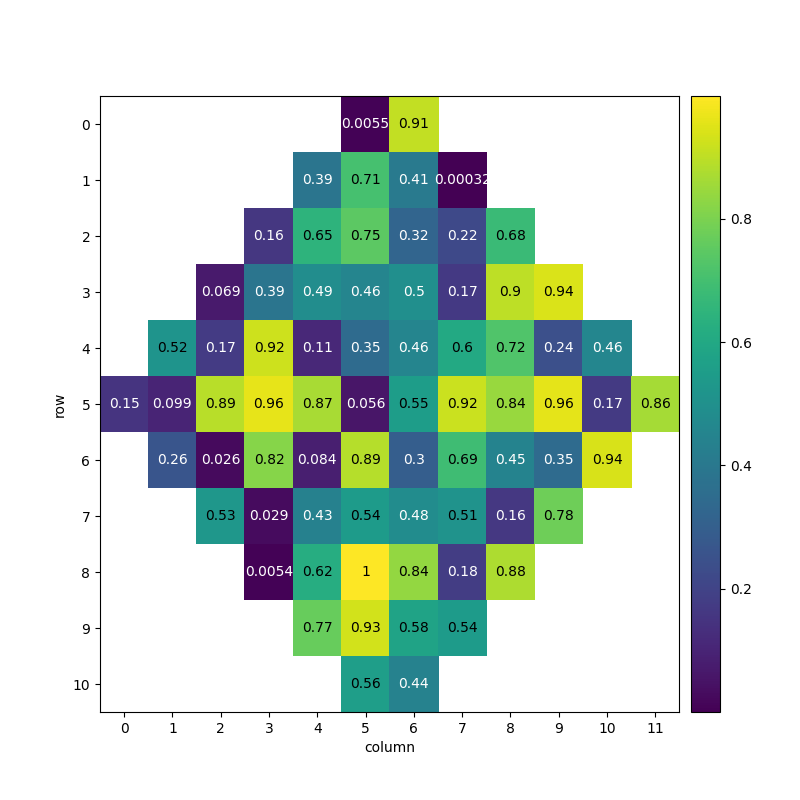
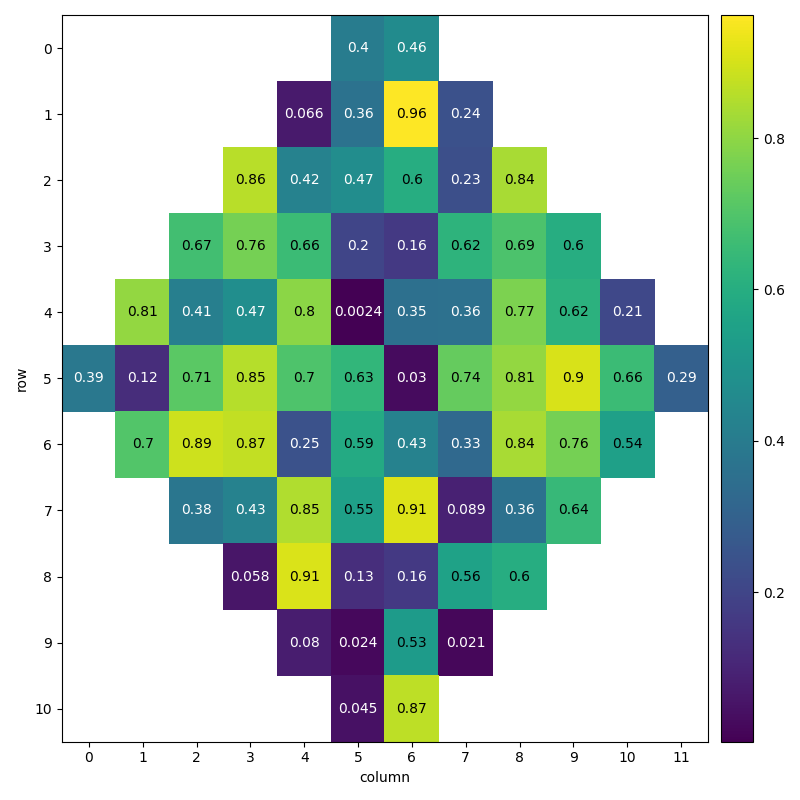
example simplification

diff --git a/examples/heatmap_example.py b/examples/heatmap_example.py
@@ -1,4 +1,5 @@
 """The script that produces bristlecone_heatmap_example.png."""
+from typing import Tuple, cast
 
 import numpy as np
 import cirq
@@ -15,42 +16,22 @@ def bristlecone():
     fig.figure.savefig(file_path)
 
 
-def gateerror():
-    title = 'Two Qubit Sycamore Gate Xeb Cycle Total Error'
-    value_map = {
-        (cirq.GridQubit(3, 2), cirq.GridQubit(4, 2)): 0.004619111460557768,
-        (cirq.GridQubit(4, 1), cirq.GridQubit(4, 2)): 0.0076079162393482835,
-        (cirq.GridQubit(4, 1), cirq.GridQubit(5, 1)): 0.010323903068646778,
-        (cirq.GridQubit(4, 2), cirq.GridQubit(4, 3)): 0.00729037246947839,
-        (cirq.GridQubit(4, 2), cirq.GridQubit(5, 2)): 0.008226663382640803,
-        (cirq.GridQubit(4, 3), cirq.GridQubit(5, 3)): 0.01504682356081491,
-        (cirq.GridQubit(5, 0), cirq.GridQubit(5, 1)): 0.00673880216745637,
-        (cirq.GridQubit(5, 1), cirq.GridQubit(5, 2)): 0.01020380985719993,
-        (cirq.GridQubit(5, 1), cirq.GridQubit(6, 1)): 0.005713058677283056,
-        (cirq.GridQubit(5, 2), cirq.GridQubit(5, 3)): 0.006431698844451689,
-        (cirq.GridQubit(5, 2), cirq.GridQubit(6, 2)): 0.004676551878404933,
-        (cirq.GridQubit(5, 3), cirq.GridQubit(5, 4)): 0.009471810549265769,
-        (cirq.GridQubit(5, 3), cirq.GridQubit(6, 3)): 0.003834724159559072,
-        (cirq.GridQubit(5, 4), cirq.GridQubit(6, 4)): 0.010423354216218345,
-        (cirq.GridQubit(6, 1), cirq.GridQubit(6, 2)): 0.0062515002303844824,
-        (cirq.GridQubit(6, 2), cirq.GridQubit(6, 3)): 0.005419247075412775,
-        (cirq.GridQubit(6, 2), cirq.GridQubit(7, 2)): 0.02236774155039517,
-        (cirq.GridQubit(6, 3), cirq.GridQubit(6, 4)): 0.006116965562115412,
-        (cirq.GridQubit(6, 3), cirq.GridQubit(7, 3)): 0.005300336755683754,
-        (cirq.GridQubit(6, 4), cirq.GridQubit(6, 5)): 0.012849356290539266,
-        (cirq.GridQubit(6, 4), cirq.GridQubit(7, 4)): 0.007785990142364307,
-        (cirq.GridQubit(6, 5), cirq.GridQubit(7, 5)): 0.008790971346696541,
-        (cirq.GridQubit(7, 2), cirq.GridQubit(7, 3)): 0.004104719338404117,
-        (cirq.GridQubit(7, 3), cirq.GridQubit(7, 4)): 0.009236765681133435,
-        (cirq.GridQubit(7, 3), cirq.GridQubit(8, 3)): 0.024921853294157192,
-        (cirq.GridQubit(7, 4), cirq.GridQubit(7, 5)): 0.0059072812181635015,
-        (cirq.GridQubit(7, 4), cirq.GridQubit(8, 4)): 0.004990546867455203,
-        (cirq.GridQubit(7, 5), cirq.GridQubit(7, 6)): 0.007852170748540305,
-        (cirq.GridQubit(7, 5), cirq.GridQubit(8, 5)): 0.006424831182351348,
-        (cirq.GridQubit(8, 3), cirq.GridQubit(8, 4)): 0.005248674988741292,
-        (cirq.GridQubit(8, 4), cirq.GridQubit(8, 5)): 0.014301577907262525,
-        (cirq.GridQubit(8, 4), cirq.GridQubit(9, 4)): 0.0038720100369923904,
+def sycamore_edges():
+    # TODO(https://github.com/quantumlib/Cirq/issues/3696): replace this when we have a proper
+    # method for it
+    return {
+        pair
+        for gate_defs in cirq.google.Sycamore.gate_definitions.values()
+        for gate_def in gate_defs
+        if gate_def.number_of_qubits == 2
+        for pair in gate_def.target_set
+        if len(pair) == 2
     }
+
+
+def two_qubit_interaction_heatmap():
+    title = 'Two Qubit Sycamore Gate Xeb Cycle Total Error'
+    value_map = {qubit_pair: np.random.random() for qubit_pair in sycamore_edges()}
     heatmap = cirq.InterHeatmap(value_map, title)
     file_path = "examples/qubitinteraction_heatmap_example.png"
     fig, _, _ = heatmap.plot()
@@ -60,4 +41,4 @@ def gateerror():
 if __name__ == '__main__':
     # coverage: ignore
     bristlecone()
-    gateerror()
+    two_qubit_interaction_heatmap()

diff --git a/examples/examples_test.py b/examples/examples_test.py
@@ -95,7 +95,7 @@ def test_example_runs_bristlecone_heatmap():
 
 def test_example_runs_qubitinteraction_heatmap():
     plt.switch_backend('agg')
-    examples.heatmap_example.gateerror()
+    examples.heatmap_example.two_qubit_interaction_heatmap()
 
 
 def test_example_runs_qaoa():
